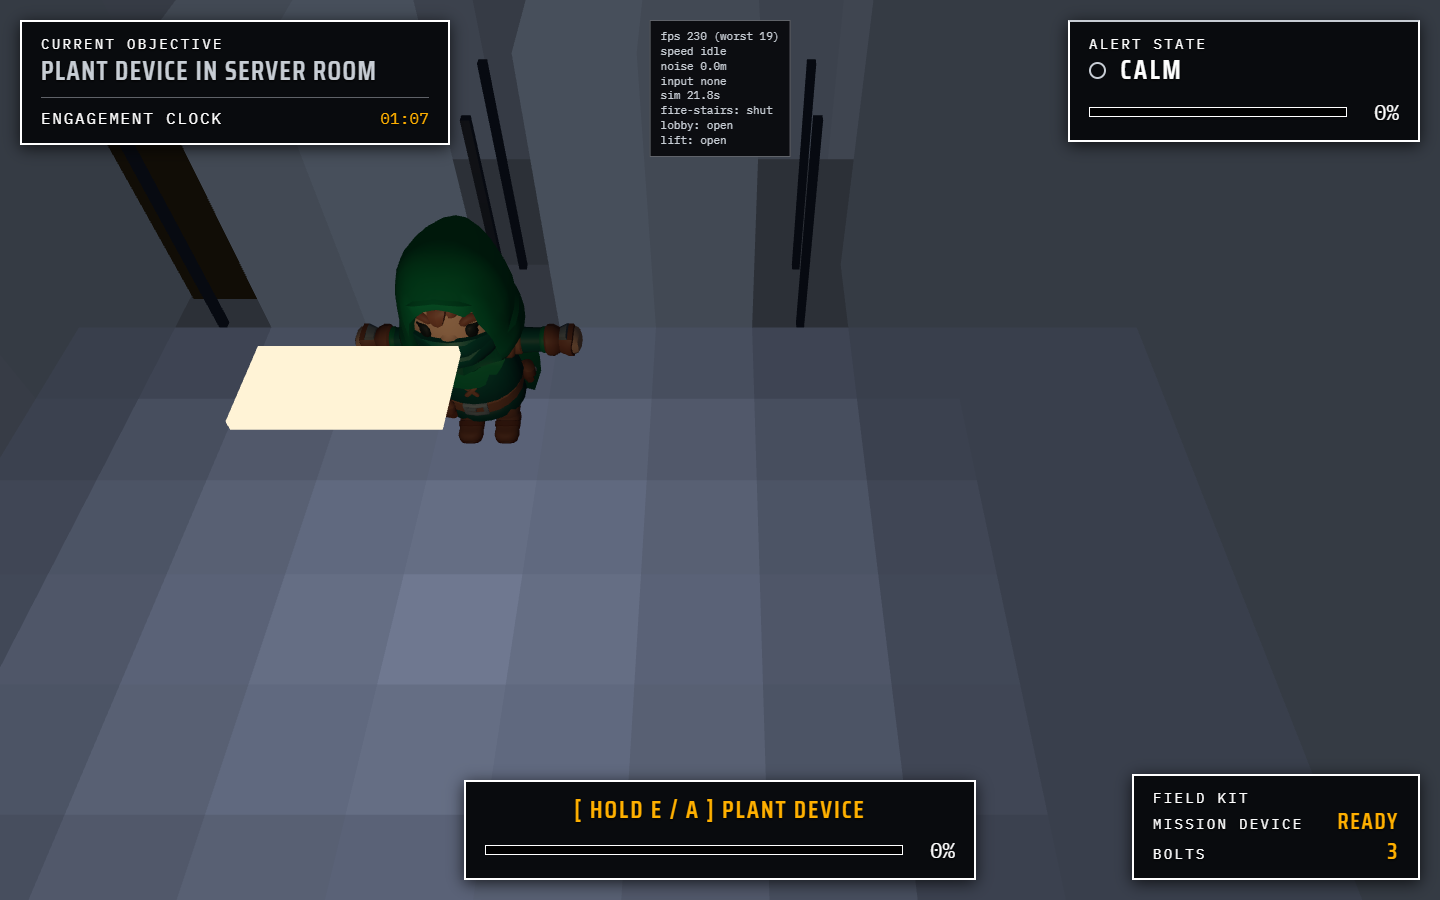
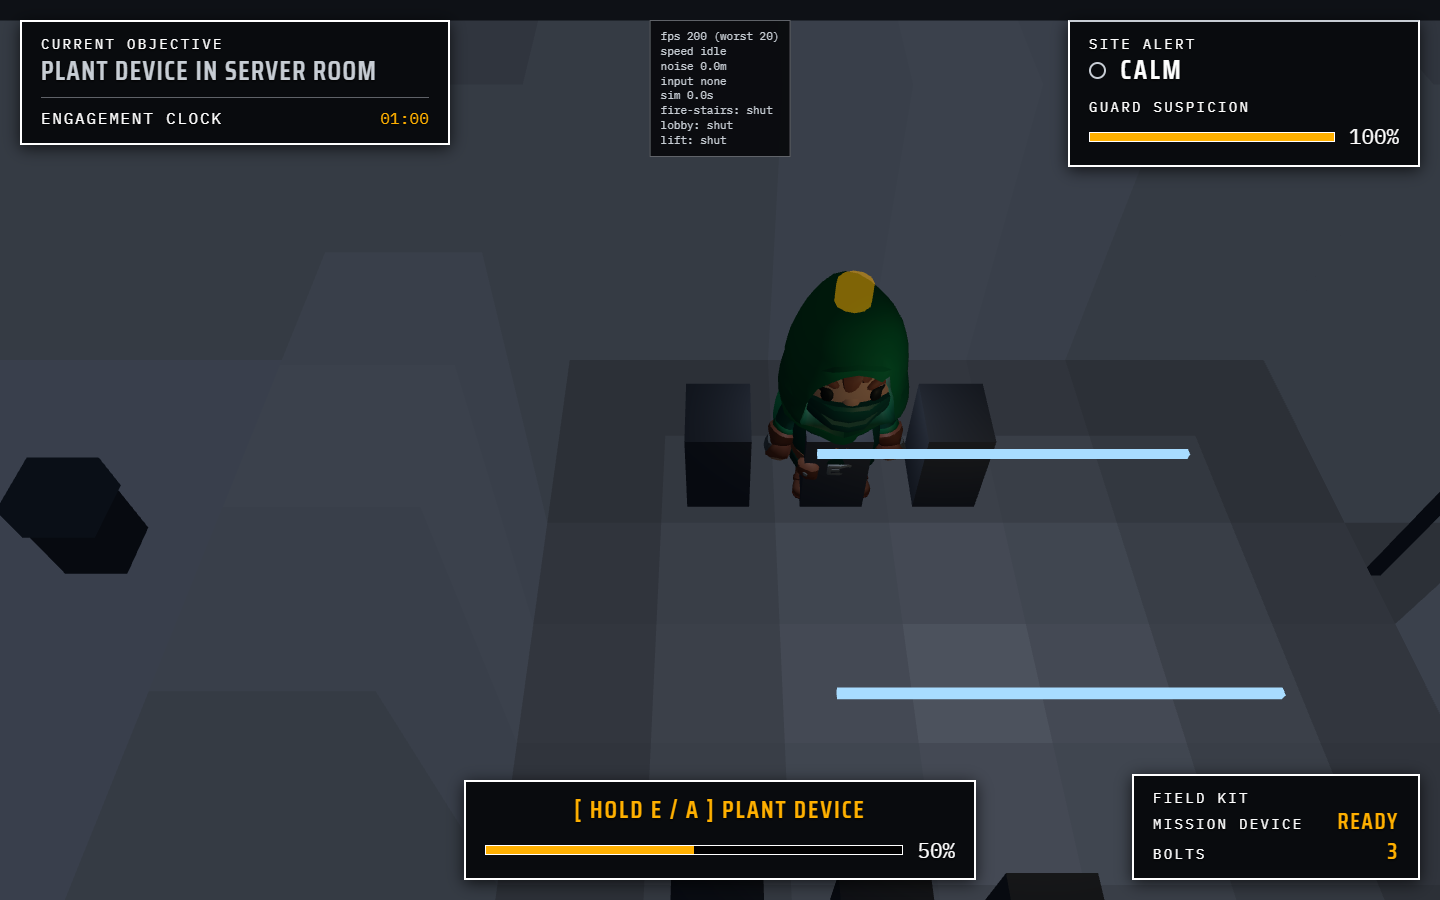
fix: clarify hud alert context

diff --git a/src/ui/PlayerHud.test.ts b/src/ui/PlayerHud.test.ts
@@ -55,9 +55,11 @@ describe('PlayerHud', () => {
     const elements = {
       objective: element(),
       clock: element(),
+      alertHeading: element(),
       alertRegion: element(),
       alertMarker: element(),
       alertLabel: element(),
+      suspicionLabel: element(),
       suspicionMeter: element(),
       suspicionFill: element(),
       suspicionValue: element(),
@@ -75,9 +77,11 @@ describe('PlayerHud', () => {
       objective: 'RETURN TO SERVICE LIFT',
       clock: '03:12',
       alert: {
+        siteLabel: 'SITE ALERT',
         state: 'cautious',
         label: 'CAUTIOUS',
         marker: 'diamond',
+        suspicionLabel: 'GUARD SUSPICION',
         suspicionPercent: 43,
         suspicionText: '43%',
       },
@@ -91,9 +95,11 @@ describe('PlayerHud', () => {
 
     expect(elements.objective.textContent).toBe('RETURN TO SERVICE LIFT');
     expect(elements.clock.textContent).toBe('03:12');
+    expect(elements.alertHeading.textContent).toBe('SITE ALERT');
     expect(elements.alertRegion.dataset.alertState).toBe('cautious');
     expect(elements.alertMarker.dataset.marker).toBe('diamond');
     expect(elements.alertLabel.textContent).toBe('CAUTIOUS');
+    expect(elements.suspicionLabel.textContent).toBe('GUARD SUSPICION');
     expect(elements.suspicionMeter.attributes['aria-valuenow']).toBe('43');
     expect(elements.suspicionFill.style.values['--hud-fill']).toBe('43%');
     expect(elements.suspicionValue.textContent).toBe('43%');
@@ -114,9 +120,11 @@ describe('PlayerHud', () => {
     const elements = {
       objective: element(),
       clock: element(),
+      alertHeading: element(),
       alertRegion: element(),
       alertMarker: element(),
       alertLabel: element(),
+      suspicionLabel: element(),
       suspicionMeter: element(),
       suspicionFill: element(),
       suspicionValue: element(),
@@ -133,7 +141,15 @@ describe('PlayerHud', () => {
     hud.render({
       objective: 'PLANT DEVICE IN SERVER ROOM',
       clock: '01:00',
-      alert: { state: 'calm', label: 'CALM', marker: 'circle', suspicionPercent: 0, suspicionText: '0%' },
+      alert: {
+        siteLabel: 'SITE ALERT',
+        state: 'calm',
+        label: 'CALM',
+        marker: 'circle',
+        suspicionLabel: 'GUARD SUSPICION',
+        suspicionPercent: 0,
+        suspicionText: '0%',
+      },
       inventory: { deviceStatus: 'READY', boltsRemaining: 3 },
       interaction: null,
     });
@@ -142,6 +158,55 @@ describe('PlayerHud', () => {
     expect(elements.interactionPrompt.textContent).toBe('');
     expect(elements.interactionProgress.attributes['aria-valuenow']).toBe('0');
     expect(elements.interactionFill.style.values['--hud-fill']).toBe('0%');
+  });
+
+  it('renders calm site alert separately from 100 per cent guard suspicion', async () => {
+    const module = await loadPlayerHud();
+    expect(typeof module?.PlayerHud).toBe('function');
+    if (!module?.PlayerHud) return;
+
+    const elements = {
+      objective: element(),
+      clock: element(),
+      alertHeading: element(),
+      alertRegion: element(),
+      alertMarker: element(),
+      alertLabel: element(),
+      suspicionLabel: element(),
+      suspicionMeter: element(),
+      suspicionFill: element(),
+      suspicionValue: element(),
+      device: element(),
+      bolts: element(),
+      interactionRegion: element(),
+      interactionPrompt: element(),
+      interactionProgress: element(),
+      interactionFill: element(),
+      interactionValue: element(),
+    };
+    const hud = new module.PlayerHud(elements);
+
+    hud.render({
+      objective: 'PLANT DEVICE IN SERVER ROOM',
+      clock: '01:00',
+      alert: {
+        siteLabel: 'SITE ALERT',
+        state: 'calm',
+        label: 'CALM',
+        marker: 'circle',
+        suspicionLabel: 'GUARD SUSPICION',
+        suspicionPercent: 100,
+        suspicionText: '100%',
+      },
+      inventory: { deviceStatus: 'READY', boltsRemaining: 3 },
+      interaction: null,
+    });
+
+    expect(elements.alertHeading.textContent).toBe('SITE ALERT');
+    expect(elements.alertLabel.textContent).toBe('CALM');
+    expect(elements.alertMarker.dataset.marker).toBe('circle');
+    expect(elements.suspicionLabel.textContent).toBe('GUARD SUSPICION');
+    expect(elements.suspicionValue.textContent).toBe('100%');
   });
 });
 

diff --git a/src/ui/HudPresenter.test.ts b/src/ui/HudPresenter.test.ts
@@ -6,9 +6,11 @@ interface PlayerHudModel {
   objective: string;
   clock: string;
   alert: {
+    siteLabel: 'SITE ALERT';
     state: 'calm' | 'cautious' | 'alarm';
     label: 'CALM' | 'CAUTIOUS' | 'ALARM';
     marker: 'circle' | 'diamond' | 'triangle';
+    suspicionLabel: 'GUARD SUSPICION';
     suspicionPercent: number;
     suspicionText: string;
   };
@@ -72,11 +74,33 @@ describe('buildPlayerHudPresentation', () => {
     );
 
     expect(model.alert).toEqual({
+      siteLabel: 'SITE ALERT',
       state: expected.state,
       label: expected.label,
       marker: expected.marker,
+      suspicionLabel: 'GUARD SUSPICION',
       suspicionPercent: 43,
       suspicionText: '43%',
+    });
+  });
+
+  it('labels calm site alert separately from full guard suspicion', async () => {
+    const presenter = await loadPresenter();
+    expect(typeof presenter.buildPlayerHudPresentation).toBe('function');
+    if (!presenter.buildPlayerHudPresentation) return;
+
+    const model = presenter.buildPlayerHudPresentation(
+      playerInput(createMissionState(), { alertLevel: 0, suspicion: 100 }),
+    );
+
+    expect(model.alert).toEqual({
+      siteLabel: 'SITE ALERT',
+      state: 'calm',
+      label: 'CALM',
+      marker: 'circle',
+      suspicionLabel: 'GUARD SUSPICION',
+      suspicionPercent: 100,
+      suspicionText: '100%',
     });
   });
 

diff --git a/index.html b/index.html
@@ -158,9 +158,13 @@
       .hud-meter-row {
         display: grid;
         grid-template-columns: minmax(0, 1fr) auto;
-        gap: 0.7em;
+        gap: 0.35em 0.7em;
         align-items: center;
         margin-top: 0.72em;
+      }
+      .hud-meter-heading {
+        grid-column: 1 / -1;
+        margin: 0;
       }
       .hud-meter {
         box-sizing: border-box;
@@ -738,24 +742,25 @@
         </div>
       </section>
       <section id="hud-alert-region" class="hud-panel" data-alert-state="calm" aria-labelledby="hud-alert-heading">
-        <h2 id="hud-alert-heading" class="hud-label">ALERT STATE</h2>
+        <h2 id="hud-alert-heading" class="hud-label">SITE ALERT</h2>
         <div class="hud-alert-line">
           <span id="hud-alert-marker" class="hud-alert-marker" data-marker="circle" aria-hidden="true"></span>
           <strong id="hud-alert-label" class="hud-alert-value">CALM</strong>
         </div>
         <div class="hud-meter-row">
+          <span id="hud-suspicion-label" class="hud-label hud-meter-heading">GUARD SUSPICION</span>
           <div
             id="hud-suspicion-meter"
             class="hud-meter"
             role="meter"
-            aria-label="Suspicion"
+            aria-label="Guard suspicion"
             aria-valuemin="0"
             aria-valuemax="100"
             aria-valuenow="0"
           >
             <div id="hud-suspicion-fill" class="hud-meter-fill"></div>
           </div>
-          <output id="hud-suspicion-value" class="hud-meter-value" aria-label="Suspicion percentage">0%</output>
+          <output id="hud-suspicion-value" class="hud-meter-value" aria-label="Guard suspicion percentage">0%</output>
         </div>
       </section>
       <section id="hud-inventory-region" class="hud-panel" aria-labelledby="hud-inventory-heading">

diff --git a/src/main.ts b/src/main.ts
@@ -82,9 +82,11 @@ async function main(): Promise<void> {
   const appEl = document.getElementById('app');
   const objectiveEl = document.getElementById('hud-objective');
   const clockEl = document.getElementById('hud-clock');
+  const alertHeadingEl = document.getElementById('hud-alert-heading');
   const alertRegionEl = document.getElementById('hud-alert-region');
   const alertMarkerEl = document.getElementById('hud-alert-marker');
   const alertLabelEl = document.getElementById('hud-alert-label');
+  const suspicionLabelEl = document.getElementById('hud-suspicion-label');
   const suspicionMeterEl = document.getElementById('hud-suspicion-meter');
   const suspicionFillEl = document.getElementById('hud-suspicion-fill');
   const suspicionValueEl = document.getElementById('hud-suspicion-value');
@@ -101,9 +103,11 @@ async function main(): Promise<void> {
     !appEl ||
     !objectiveEl ||
     !clockEl ||
+    !alertHeadingEl ||
     !alertRegionEl ||
     !alertMarkerEl ||
     !alertLabelEl ||
+    !suspicionLabelEl ||
     !suspicionMeterEl ||
     !suspicionFillEl ||
     !suspicionValueEl ||
@@ -123,9 +127,11 @@ async function main(): Promise<void> {
   const playerHud = new PlayerHud({
     objective: objectiveEl,
     clock: clockEl,
+    alertHeading: alertHeadingEl,
     alertRegion: alertRegionEl,
     alertMarker: alertMarkerEl,
     alertLabel: alertLabelEl,
+    suspicionLabel: suspicionLabelEl,
     suspicionMeter: suspicionMeterEl,
     suspicionFill: suspicionFillEl,
     suspicionValue: suspicionValueEl,

diff --git a/src/ui/HudPresenter.ts b/src/ui/HudPresenter.ts
@@ -11,9 +11,11 @@ export interface PlayerHudPresentation {
   objective: string;
   clock: string;
   alert: {
+    siteLabel: 'SITE ALERT';
     state: PlayerAlertState;
     label: 'CALM' | 'CAUTIOUS' | 'ALARM';
     marker: PlayerAlertMarker;
+    suspicionLabel: 'GUARD SUSPICION';
     suspicionPercent: number;
     suspicionText: string;
   };
@@ -83,7 +85,9 @@ export function buildPlayerHudPresentation(input: PlayerHudInput): PlayerHudPres
     objective: objectiveLabel(input.mission),
     clock: nightClockLabel(input.simTimeMs),
     alert: {
+      siteLabel: 'SITE ALERT',
       ...alert,
+      suspicionLabel: 'GUARD SUSPICION',
       suspicionPercent,
       suspicionText: `${suspicionPercent}%`,
     },

diff --git a/src/ui/PlayerHud.ts b/src/ui/PlayerHud.ts
@@ -11,9 +11,11 @@ interface HudElement {
 export interface PlayerHudElements {
   objective: HudElement;
   clock: HudElement;
+  alertHeading: HudElement;
   alertRegion: HudElement;
   alertMarker: HudElement;
   alertLabel: HudElement;
+  suspicionLabel: HudElement;
   suspicionMeter: HudElement;
   suspicionFill: HudElement;
   suspicionValue: HudElement;
@@ -35,9 +37,11 @@ export class PlayerHud {
     elements.objective.textContent = model.objective;
     elements.clock.textContent = model.clock;
 
+    elements.alertHeading.textContent = model.alert.siteLabel;
     elements.alertRegion.dataset.alertState = model.alert.state;
     elements.alertMarker.dataset.marker = model.alert.marker;
     elements.alertLabel.textContent = model.alert.label;
+    elements.suspicionLabel.textContent = model.alert.suspicionLabel;
     elements.suspicionMeter.setAttribute('aria-valuenow', String(model.alert.suspicionPercent));
     elements.suspicionFill.style.setProperty('--hud-fill', `${model.alert.suspicionPercent}%`);
     elements.suspicionValue.textContent = model.alert.suspicionText;